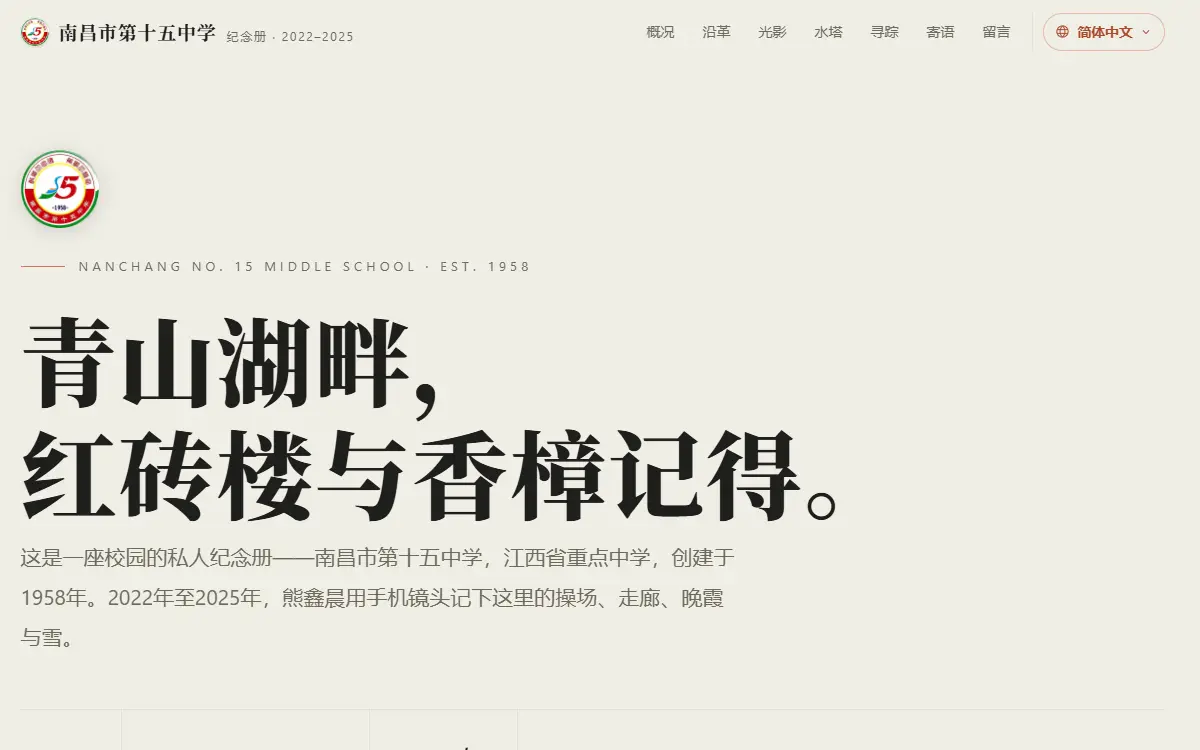
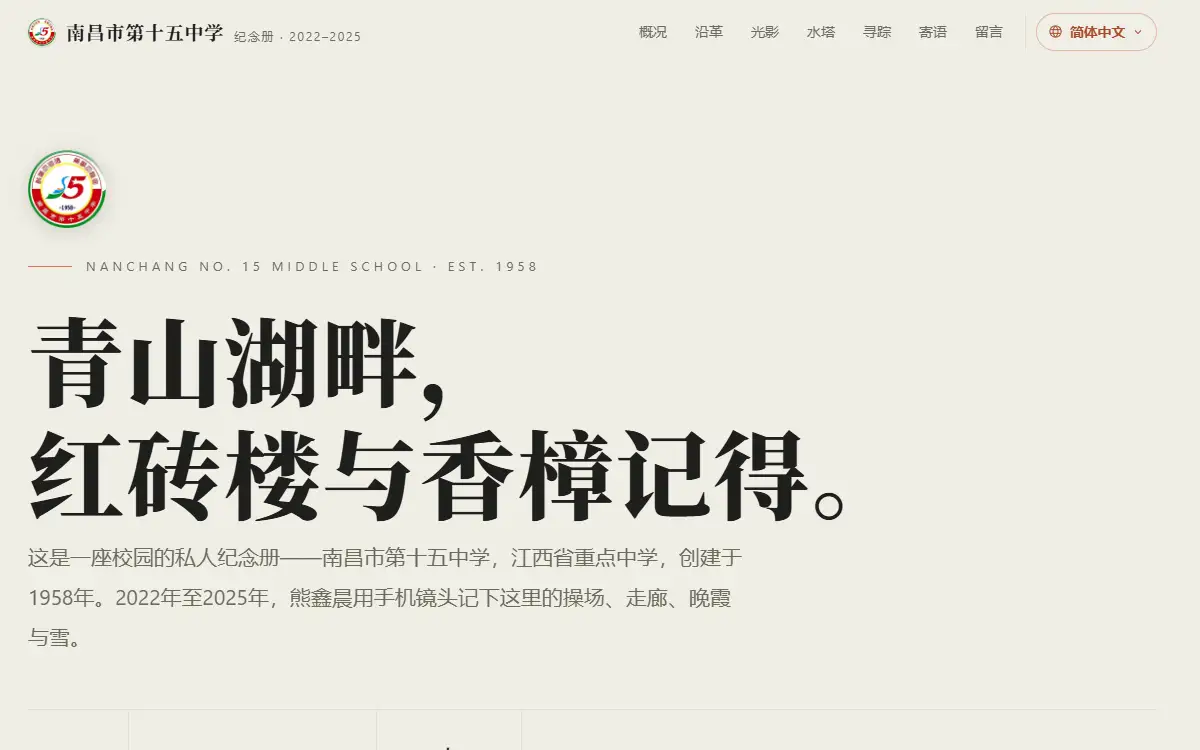
刷新个人站作品实拍与 README 展示，核对当前资源

diff --git a/en/index.html b/en/index.html
@@ -21,10 +21,10 @@
 <meta property="og:locale" content="en_US">
 <meta property="og:locale:alternate" content="zh_CN">
 <meta name="twitter:card" content="summary_large_image">
-<link rel="icon" href="../assets/images/favicon.ico?v=e7781c" type="image/x-icon">
-<link rel="icon" href="../assets/images/favicon-32.png?v=e7781c" type="image/png" sizes="32x32">
-<link rel="apple-touch-icon" href="../assets/images/apple-touch-icon.png?v=e7781c">
-<link rel="stylesheet" href="../assets/css/style.css?v=e7781c">
+<link rel="icon" href="../assets/images/favicon.ico?v=17beb4" type="image/x-icon">
+<link rel="icon" href="../assets/images/favicon-32.png?v=17beb4" type="image/png" sizes="32x32">
+<link rel="apple-touch-icon" href="../assets/images/apple-touch-icon.png?v=17beb4">
+<link rel="stylesheet" href="../assets/css/style.css?v=17beb4">
 <noscript>
 <style>
 /* Without JavaScript: show everything the scripts would reveal, and lay the two
@@ -100,14 +100,14 @@
   <section class="hero" id="top">
 <div class="hero-stage">
 <h1>Xiong Xinchen</h1>
-    <div class="hero-visual"><div class="orbit-fallback" aria-hidden="true"><img src="../assets/images/orbit-poster.webp?v=e7781c" width="800" height="800" alt="" fetchpriority="high" decoding="async"></div>
+    <div class="hero-visual"><div class="orbit-fallback" aria-hidden="true"><img src="../assets/images/orbit-poster.webp?v=17beb4" width="800" height="800" alt="" fetchpriority="high" decoding="async"></div>
     <canvas id="field" aria-hidden="true"></canvas></div>
 
 
     <div class="hero-copy"><p class="motto">I haven't written code that changed the world yet.</p>
     <p class="hero-sub">But with AI I made my first website — it puts my old school into a page you can go back to at any time.</p>
     <a class="hero-cta" data-magnetic href="#works">Explore my work <span aria-hidden="true">↗</span></a>
-    <a class="film-entry" href="../assets/video/intro-promo.mp4?v=e7781c"><img src="../assets/video/poster.webp?v=e7781c" width="480" height="270" alt="" decoding="async"><span>▶ Watch the film<small>44 sec · New edition</small></span></a></div>
+    <a class="film-entry" href="../assets/video/intro-promo.mp4?v=17beb4"><img src="../assets/video/poster.webp?v=17beb4" width="480" height="270" alt="" decoding="async"><span>▶ Watch the film<small>44 sec · New edition</small></span></a></div>
 <div class="hero-caption"><span>One person. With AI.</span><span>Design / Build / Explore</span></div>
 
 <a class="scroll-next" href="#about">Scroll to explore <span aria-hidden="true">↓</span></a>
@@ -117,7 +117,7 @@
 
   <!-- ============ I · ABOUT ============ -->
   <section id="about">
-    <div class="avatar"><img src="../assets/images/avatar.jpg?v=e7781c" alt="The owner’s chosen avatar: two lines of white Chinese text reading 「你能始终站在人民这边，你就是他最坚定的战士」 over the Russian «Служи народу», on a dark crimson field, with a black silhouetted figure in a cap at the bottom" width="300" height="300"></div>
+    <div class="avatar"><img src="../assets/images/avatar.jpg?v=17beb4" alt="The owner’s chosen avatar: two lines of white Chinese text reading 「你能始终站在人民这边，你就是他最坚定的战士」 over the Russian «Служи народу», on a dark crimson field, with a black silhouetted figure in a cap at the bottom" width="300" height="300"></div>
     <div class="sec-head reveal"><span class="sec-index">I · ABOUT</span><h2>About</h2></div>
     <hr class="sec-rule reveal">
     <p class="reveal">My name is Xiong Xinchen. The site you are reading is the introduction page I made for myself. Two other things of mine are live: a private memorial page for my school, and GEOHOT.</p>
@@ -147,7 +147,7 @@
     <article class="work-card reveal" id="project-memorial">
       <h3>A Memorial by Qingshan Lake · In memory of Nanchang No. 15 Middle School</h3>
       <p class="lede">My old school, made into an address you can visit.</p>
-      <img class="shot" src="../assets/images/shot-nc15.webp?v=e7781c" alt="The memorial site’s opening screen: cream paper, the school badge, an EST. 1958 eyebrow line, and the serif headline 「青山湖畔，红砖楼与香樟记得。」" width="1200" height="750" loading="lazy">
+      <img class="shot" src="../assets/images/shot-nc15.webp?v=17beb4" alt="The memorial site’s opening screen: cream paper, the school badge, an EST. 1958 eyebrow line, and the serif headline 「青山湖畔，红砖楼与香樟记得。」" width="1200" height="750" loading="lazy">
       <ul class="facts" role="list">
         <li>Pure HTML / CSS / vanilla JS. Structure, style and behaviour are kept apart, and there is no build step.</li>
         <li>25 campus photographs, all taken by me, and a tour through time at 8 camera positions.</li>
@@ -160,7 +160,7 @@
     <article class="work-card reveal" id="project-geohot">
       <h3>GEOHOT · Geography hot spots</h3>
       <p class="lede">Scheduled every morning at 8; when a day has nothing worth writing, it stays blank instead of padding out.</p>
-      <img class="shot" src="../assets/images/shot-geohot.webp?v=e7781c" alt="GEOHOT’s front page: a list of scored geography items and the daily digest" width="1000" height="626" loading="lazy">
+      <img class="shot" src="../assets/images/shot-geohot.webp?v=17beb4" alt="GEOHOT’s front page: a list of scored geography items and the daily digest" width="1000" height="626" loading="lazy">
       <ul class="facts" role="list">
         <li>Built on the open-source framework AIHOT. The whole geography layer lives in one directory, <code>industry/</code>.</li>
         <li>Sources are collected, pre-filtered, then scored twice on their own; spatial salience is the ranking criterion, while the admission threshold is set per source tier.</li>
@@ -249,8 +249,8 @@
   <div class="film-bar"><strong id="film-title">Personal site film · Earlier version</strong><button type="button" class="film-close" autofocus>Close</button></div>
   <video controls playsinline preload="none" width="1920" height="1080" aria-label="Personal site film, in Chinese"></video>
   <p class="film-note">The current site, with Chinese on-screen text.</p>
-  <a href="../assets/video/intro-promo.mp4?v=e7781c" download>Download film</a>
+  <a href="../assets/video/intro-promo.mp4?v=17beb4" download>Download film</a>
 </dialog>
-<script type="module" src="../assets/js/main.js?v=e7781c"></script>
+<script type="module" src="../assets/js/main.js?v=17beb4"></script>
 </body>
 </html>

diff --git a/index.html b/index.html
@@ -21,10 +21,10 @@
 <meta property="og:locale" content="zh_CN">
 <meta property="og:locale:alternate" content="en_US">
 <meta name="twitter:card" content="summary_large_image">
-<link rel="icon" href="./assets/images/favicon.ico?v=e7781c" type="image/x-icon">
-<link rel="icon" href="./assets/images/favicon-32.png?v=e7781c" type="image/png" sizes="32x32">
-<link rel="apple-touch-icon" href="./assets/images/apple-touch-icon.png?v=e7781c">
-<link rel="stylesheet" href="./assets/css/style.css?v=e7781c">
+<link rel="icon" href="./assets/images/favicon.ico?v=17beb4" type="image/x-icon">
+<link rel="icon" href="./assets/images/favicon-32.png?v=17beb4" type="image/png" sizes="32x32">
+<link rel="apple-touch-icon" href="./assets/images/apple-touch-icon.png?v=17beb4">
+<link rel="stylesheet" href="./assets/css/style.css?v=17beb4">
 <noscript>
 <style>
 /* 关掉脚本时：脚本本来要揭示的内容全部直接显示，两个语言链接摊平仍可点击。
@@ -99,14 +99,14 @@
   <section class="hero" id="top">
 <div class="hero-stage">
 <h1>熊鑫晨</h1>
-    <div class="hero-visual"><div class="orbit-fallback" aria-hidden="true"><img src="./assets/images/orbit-poster.webp?v=e7781c" width="800" height="800" alt="" fetchpriority="high" decoding="async"></div>
+    <div class="hero-visual"><div class="orbit-fallback" aria-hidden="true"><img src="./assets/images/orbit-poster.webp?v=17beb4" width="800" height="800" alt="" fetchpriority="high" decoding="async"></div>
     <canvas id="field" aria-hidden="true"></canvas></div>
 
 
     <div class="hero-copy"><p class="motto">我还没写出改变世界的代码。</p>
     <p class="hero-sub">但用 AI 做出了自己的第一个网站——把母校装进一个可以随时回去的网页。</p>
     <a class="hero-cta" data-magnetic href="#works">探索我的作品 <span aria-hidden="true">↗</span></a>
-    <a class="film-entry" href="./assets/video/intro-promo.mp4?v=e7781c"><img src="./assets/video/poster.webp?v=e7781c" width="480" height="270" alt="" decoding="async"><span>▶ 观看介绍片<small>44 秒 · 新版介绍</small></span></a></div>
+    <a class="film-entry" href="./assets/video/intro-promo.mp4?v=17beb4"><img src="./assets/video/poster.webp?v=17beb4" width="480" height="270" alt="" decoding="async"><span>▶ 观看介绍片<small>44 秒 · 新版介绍</small></span></a></div>
 <div class="hero-caption"><span>一个人，与 AI 一起。</span><span>设计 / 建造 / 探索</span></div>
 
 <a class="scroll-next" href="#about">向下，认识我 <span aria-hidden="true">↓</span></a>
@@ -116,7 +116,7 @@
 
   <!-- ============ 壹 · ABOUT ============ -->
   <section id="about">
-    <div class="avatar"><img src="./assets/images/avatar.jpg?v=e7781c" alt="站长选定的头像图：深红底上两行白字「你能始终站在人民这边，你就是他最坚定的战士」，其下一行俄文「Служи народу」，底部是一个戴帽人物的黑色剪影" width="300" height="300"></div>
+    <div class="avatar"><img src="./assets/images/avatar.jpg?v=17beb4" alt="站长选定的头像图：深红底上两行白字「你能始终站在人民这边，你就是他最坚定的战士」，其下一行俄文「Служи народу」，底部是一个戴帽人物的黑色剪影" width="300" height="300"></div>
     <div class="sec-head reveal"><span class="sec-index">壹 · ABOUT</span><h2>关于我</h2></div>
     <hr class="sec-rule reveal">
     <p class="reveal">我叫熊鑫晨。你现在看到的这个页面，是我为自己做的介绍页。我放上线的还有两个站点——纪念母校的那本私人纪念册，和地理热点 GEOHOT。</p>
@@ -146,7 +146,7 @@
     <article class="work-card reveal" id="project-memorial">
       <h3>青山湖畔的纪念册 · 纪念南昌市第十五中学</h3>
       <p class="lede">把母校做成一个可以随时访问的地址。</p>
-      <img class="shot" src="./assets/images/shot-nc15.webp?v=e7781c" alt="纪念册网站的首屏：米白纸面、校徽、眉标 NANCHANG NO. 15 MIDDLE SCHOOL · EST. 1958，以及衬线大标题「青山湖畔，红砖楼与香樟记得。」" width="1200" height="750" loading="lazy">
+      <img class="shot" src="./assets/images/shot-nc15.webp?v=17beb4" alt="纪念册网站的首屏：米白纸面、校徽、眉标 NANCHANG NO. 15 MIDDLE SCHOOL · EST. 1958，以及衬线大标题「青山湖畔，红砖楼与香樟记得。」" width="1200" height="750" loading="lazy">
       <ul class="facts" role="list">
         <li>纯 HTML / CSS / 原生 JS，结构、样式、行为三分离，没有构建步骤。</li>
         <li>25 张我自己拍的校园实景，八个机位的时光漫游。</li>
@@ -159,7 +159,7 @@
     <article class="work-card reveal" id="project-geohot">
       <h3>GEOHOT · 地理热点</h3>
       <p class="lede">每天上午八点排期出刊；那一天没有值得写的，它就照实空着，不凑数。</p>
-      <img class="shot" src="./assets/images/shot-geohot.webp?v=e7781c" alt="GEOHOT 首页：带入选分的地理条目列表与每日日报" width="1000" height="626" loading="lazy">
+      <img class="shot" src="./assets/images/shot-geohot.webp?v=17beb4" alt="GEOHOT 首页：带入选分的地理条目列表与每日日报" width="1000" height="626" loading="lazy">
       <ul class="facts" role="list">
         <li>建在开源框架 AIHOT 之上，地理这一层全部收在 <code>industry/</code> 一个目录里。</li>
         <li>信源先采集、再预筛，然后两次独立打分；入选标准是空间显著性优先，门槛按信源分级。</li>
@@ -248,8 +248,8 @@
   <div class="film-bar"><strong id="film-title">个人站介绍片 · 此前版本</strong><button type="button" class="film-close" autofocus>关闭</button></div>
   <video controls playsinline preload="none" width="1920" height="1080" aria-label="个人站介绍片，中文"></video>
   <p class="film-note">影片展示当前新版网页，含中文画面文字。</p>
-  <a href="./assets/video/intro-promo.mp4?v=e7781c" download>下载影片</a>
+  <a href="./assets/video/intro-promo.mp4?v=17beb4" download>下载影片</a>
 </dialog>
-<script type="module" src="./assets/js/main.js?v=e7781c"></script>
+<script type="module" src="./assets/js/main.js?v=17beb4"></script>
 </body>
 </html>

diff --git a/assets/video/index.html b/assets/video/index.html
@@ -15,8 +15,8 @@
   <header><a href="/">熊鑫晨 · 个人介绍</a><span>44 秒 · 1920 × 1080</span></header>
   <h1>一个人，与 AI 一起。</h1>
   <p>当前新版个人站的真实画面，配以轻柔音乐与自然运镜。<br><small>The current website, with Chinese on-screen text and a soft original score.</small></p>
-  <video controls playsinline preload="metadata" poster="./poster-hd.jpg?v=e7781c" width="1920" height="1080" aria-label="熊鑫晨新版个人站宣传片"><source src="./intro-promo.mp4?v=e7781c" type="video/mp4">你的浏览器无法播放此视频，请使用下方下载链接。</video>
-  <div class="links"><a href="./intro-promo.mp4?v=e7781c" download>下载高清影片 / Download MP4</a><a href="./intro-promo-nobgm.mp4?v=e7781c" download>无配乐版 / No music</a><a href="/">返回网站 / Back to site ↗</a></div>
+  <video controls playsinline preload="metadata" poster="./poster-hd.jpg?v=17beb4" width="1920" height="1080" aria-label="熊鑫晨新版个人站宣传片"><source src="./intro-promo.mp4?v=17beb4" type="video/mp4">你的浏览器无法播放此视频，请使用下方下载链接。</video>
+  <div class="links"><a href="./intro-promo.mp4?v=17beb4" download>下载高清影片 / Download MP4</a><a href="./intro-promo-nobgm.mp4?v=17beb4" download>无配乐版 / No music</a><a href="/">返回网站 / Back to site ↗</a></div>
   <footer><small>画面：当前个人站与公开作品素材 · 制作：Video Shotcraft · 原创轻柔配乐<br>地球影像：NASA Earth Observatory / Blue Marble Next Generation</small></footer>
 </main>
 </body>

diff --git a/404.html b/404.html
@@ -37,8 +37,8 @@
 <!-- 这一页是全仓唯一**不许用相对路径**的文件：nginx 用 error_page 把它内部重写到任意不存在的地址上，
      访客真正请求的是 /foo/bar 这种带目录的 URL，相对 ./assets/... 会被解析成 /foo/assets/... 而 404——
      于是错误页丢掉样式、四个出口里两个点不动。所以这里一律写根绝对路径。 -->
-<link rel="stylesheet" href="/assets/fonts/noto-serif-sc/wght.css?v=e7781c">
-<link rel="stylesheet" href="/assets/css/style.css?v=e7781c">
+<link rel="stylesheet" href="/assets/fonts/noto-serif-sc/wght.css?v=17beb4">
+<link rel="stylesheet" href="/assets/css/style.css?v=17beb4">
 </head>
 <body>
 

diff --git a/README.en.md b/README.en.md
@@ -20,7 +20,7 @@ A bilingual personal introduction, two live projects, a way of working, three be
 
 A 44-second, 1920 × 1080 film made from the current website with Video Shotcraft. Real page captures, the live rotating Earth, gentle camera movement and an original soft score. No transition sound effects.
 
-[![Watch the current website film](assets/video/poster-hd.jpg)](https://xxc2007.me/assets/video/)
+[![Watch the current website film](assets/video/poster-hd.jpg?v=21e0bb06e392)](https://xxc2007.me/assets/video/)
 
 [▶ Watch in the 1080p player](https://xxc2007.me/assets/video/) · [Download MP4](https://xxc2007.me/assets/video/intro-promo.mp4) · [No-music edition](https://xxc2007.me/assets/video/intro-promo-nobgm.mp4)
 
@@ -28,13 +28,13 @@ The film uses Chinese on-screen text. The English website remains fully translat
 
 ## Current website
 
-![Desktop hero: large name, introduction and a real Earth globe](assets/images/readme-hero-desktop.png)
+![Desktop hero: large name, introduction and a real Earth globe](assets/images/readme-hero-desktop.png?v=4430820db066)
 
-![Two live projects, shown using the current project selector](assets/images/readme-works-desktop.png)
+![Two live projects, shown using the current project selector](assets/images/readme-works-desktop.png?v=ddaf350d481d)
 
-<p align="center"><img src="assets/images/readme-hero-mobile.png" width="390" alt="Current mobile hero and navigation"></p>
+<p align="center"><img src="assets/images/readme-hero-mobile.png?v=a80248cfcbe2" width="390" alt="Current mobile hero and navigation"></p>
 
-These are captures of the current local release candidate, refreshed on 16 October 2026. The desktop hero is a frame from its real browser recording; other captures come directly from Chrome. No UI has been redrawn for these previews.
+These are captures of the current local release candidate, refreshed on 16 October 2026. All three captures come directly from Chrome, with project thumbnails refreshed from the live sites on the same day. No UI has been redrawn. The film preserves its production-time snapshot and does not track live news updates.
 
 ## What is here
 
@@ -68,11 +68,11 @@ The values below are checked against the files by the quality suite. JS totals i
 
 | Item | Current measurement | How to check |
 |---|---|---|
-| Repository files | **188** | `git ls-files \| wc -l` = 188 |
+| Repository files | **189** | `git ls-files \| wc -l` = 189 |
 | HTML size | `24,111` / `24,542` B | index.html / en/index.html |
 | Site CSS | **50.7 KB** (`51,962` B), gzip **11.5 KB** | assets/css/style.css |
 | Hero JS | gzip **194.6 KB** | scripts/check-bytes.mjs |
-| Images (avatar + two project shots) | **85.8 KB** (`87,886` B) | scripts/check-bytes.mjs |
+| Images (avatar + two project shots) | **85.3 KB** (`87,382` B) | scripts/check-bytes.mjs |
 | Social/share assets | **77.8 KB** (`79,646` B) | scripts/check-bytes.mjs |
 
 ## Publishing and verification

diff --git a/README.md b/README.md
@@ -20,19 +20,19 @@
 
 44 秒，1920 × 1080。使用 Video Shotcraft 制作，画面来自当前新版网页，包含首屏地球的真实旋转、两个作品和做事方法。参考南昌十五中纪念站宣传片的留白与运镜节奏，采用轻柔原创配乐、自然叠化，无换场音效。
 
-[![点击观看新版个人站宣传片](assets/video/poster-hd.jpg)](https://xxc2007.me/assets/video/)
+[![点击观看新版个人站宣传片](assets/video/poster-hd.jpg?v=21e0bb06e392)](https://xxc2007.me/assets/video/)
 
 [▶ 打开 1080p 高清播放器](https://xxc2007.me/assets/video/) · [直接打开 MP4](https://xxc2007.me/assets/video/intro-promo.mp4) · [无配乐版](https://xxc2007.me/assets/video/intro-promo-nobgm.mp4)
 
 ## 当前网页
 
-![桌面首屏：大字姓名、个人介绍与真实地球](assets/images/readme-hero-desktop.png)
+![桌面首屏：大字姓名、个人介绍与真实地球](assets/images/readme-hero-desktop.png?v=4430820db066)
 
-![新版作品区：两个已上线网站与作品选择器](assets/images/readme-works-desktop.png)
+![新版作品区：两个已上线网站与作品选择器](assets/images/readme-works-desktop.png?v=ddaf350d481d)
 
-<p align="center"><img src="assets/images/readme-hero-mobile.png" width="390" alt="新版移动端首屏和导航"></p>
+<p align="center"><img src="assets/images/readme-hero-mobile.png?v=a80248cfcbe2" width="390" alt="新版移动端首屏和导航"></p>
 
-截图于 2026 年 10 月 16 日从本地待发布版本更新。桌面首屏取自真实浏览器录屏，其他截图由 Chrome 直接采集；没有重新绘制界面。
+截图于 2026 年 10 月 16 日从本地待发布版本更新。三张均由 Chrome 直接采集；两张作品缩略图已按同日线上页面刷新，没有重新绘制界面。介绍片保留制作时的画面快照，不随资讯实时更新。
 
 ## 网页里有什么
 
@@ -66,11 +66,11 @@ node --test "tests/*.test.mjs"
 
 | 项目 | 当前测量 | 复算方式 |
 |---|---|---|
-| 仓库文件 | **188** | `git ls-files \| wc -l` = 188 |
+| 仓库文件 | **189** | `git ls-files \| wc -l` = 189 |
 | 中英两页字节 | `24,111` / `24,542` B | index.html / en/index.html |
 | 全站 CSS | **50.7 KB** (`51,962` B), gzip **11.5 KB** | assets/css/style.css |
 | 首屏 JS（含 Three.js） | gzip **194.6 KB** | scripts/check-bytes.mjs |
-| 图片（头像 + 两张作品截图） | **85.8 KB** (`87,886` B) | scripts/check-bytes.mjs |
+| 图片（头像 + 两张作品截图） | **85.3 KB** (`87,382` B) | scripts/check-bytes.mjs |
 | 不进首屏的分享素材 | **77.8 KB** (`79,646` B) | scripts/check-bytes.mjs |
 
 ## 发布与同步

diff --git a/docs/image-provenance.md b/docs/image-provenance.md
@@ -1,6 +1,34 @@
 # 图片溯源 · `assets/images` 每一个文件的来历
 
-核对日期：**2026-10-07**。下面每一个尺寸与字节数都是今天在这台机器上重新量出来的，
+## 2026-10-16 展示资源复核
+
+个人站页面结构、交互与44秒影片保持原样。`shot-geohot.webp` 与 `shot-nc15.webp` 由同日线上页面重新采集：Chrome1440×900与1200×750视口，GEOHOT缩到1000×626，Sharp WebP quality64。三张README截图来自更新后的本地同版本页面，桌面1440×900 @2、移动390×844 @3，作品截图为完整GEOHOT作品卡。HTML统一更新资源指纹，README图链接使用内容哈希。
+
+地球影像仍为NASA Blue Marble 2004年8月无云合成，不是实时天气。影片为制作时快照。下表仅为当前文件实测，后文保留历史溯源记录。
+
+| 文件 | 当前尺寸 | 当前字节 |
+|---|---|---|
+| `apple-touch-icon.png` | 180×180 | 17524 |
+| `avatar.jpg` | 300×300 | 26762 |
+| `banner.svg` | 1200×400 | 1803 |
+| `earth-200408-1024.webp` | 1024×512 | 39394 |
+| `earth-200408-2048.webp` | 2048×1024 | 131790 |
+| `earth-blue-marble-200408.jpg` | 5400×2700 | 1616254 |
+| `favicon-32.png` | 32×32 | 1314 |
+| `favicon.ico` | 容器文件 | 1336 |
+| `og-card.png` | 1200×630 | 74866 |
+| `og-card.svg` | 1200×630 | 1663 |
+| `orbit-poster.webp` | 800×800 | 30884 |
+| `readme-hero-desktop.png` | 2880×1800 | 4528442 |
+| `readme-hero-mobile.png` | 1170×2532 | 2654477 |
+| `readme-works-desktop.png` | 2594×1912 | 972840 |
+| `shot-geohot.webp` | 1000×626 | 33838 |
+| `shot-nc15.webp` | 1200×750 | 26782 |
+
+---
+
+
+历史核对日期：**2026-10-07**。以下原始记录保留当时的尺寸、字节数与复现证据；当前文件以本页顶部 2026-10-16 的复核表为准。原记录中的复算
 命令一并写在各节里，任何人都能重跑一遍对上号。
 
 > **这份文件为什么在 `docs/` 而不是 `assets/`。** 它的前身是 `assets/images/README.md`（2026-10-07 已删）。
@@ -14,7 +42,7 @@
 
 ---
 
-## 一 · 一览（现存 12 个文件，全部实测）
+## 一 · 历史一览（2026-10-07 记录的 12 个文件）
 
 | 文件 | 实测尺寸 | 实测字节 | 怎么来的 | 用在哪 |
 | --- | --- | --- | --- | --- |
